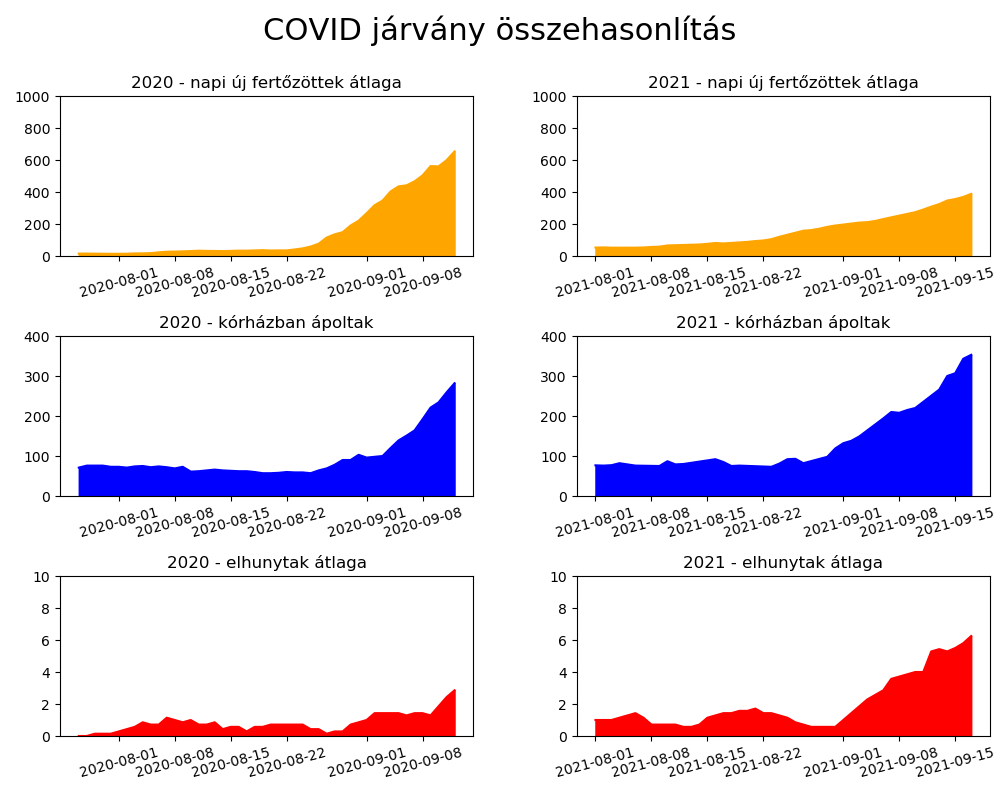
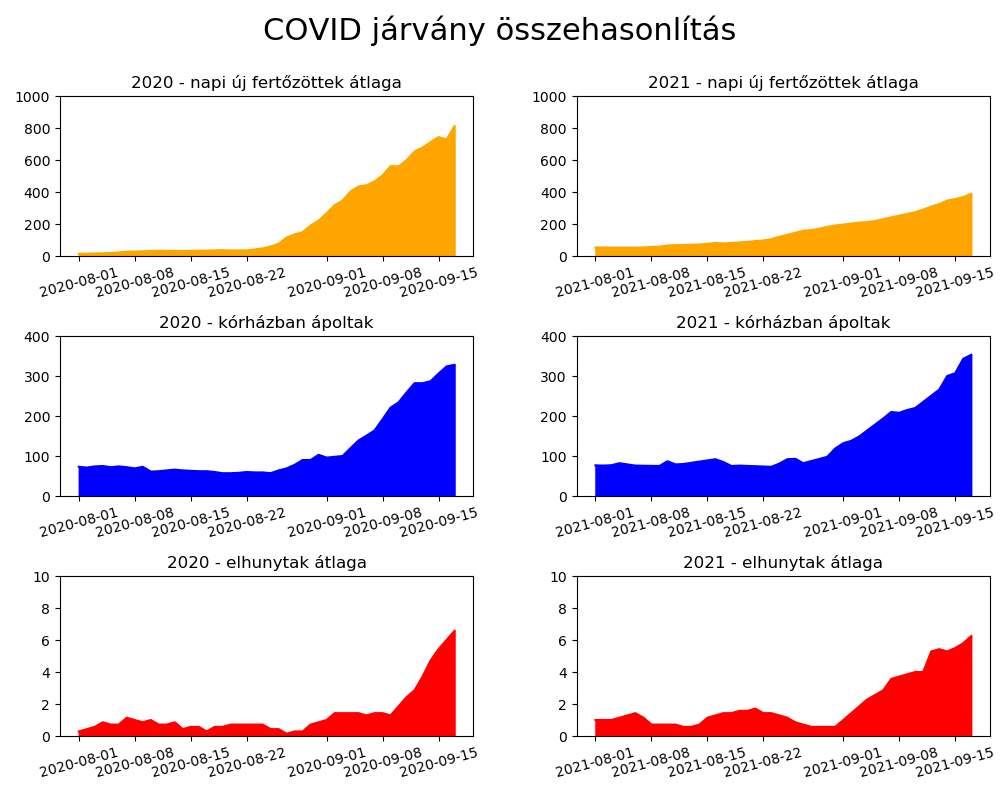
Összehasonlítás napra

diff --git a/kép_összehasonlítás.py b/kép_összehasonlítás.py
@@ -26,23 +26,12 @@ mindate = pd.to_datetime("2021-08-01")
 df2021 = df[df['Dátum'] >= mindate]
 df2021 = df2021[df2021['Dátum'] <= maxdate]
 
-maxdate1y = maxdate + timedelta(days = -385)
-mindate1y = mindate + timedelta(days = -385)
+maxdate1y = maxdate + timedelta(days = -365)
+mindate1y = mindate + timedelta(days = -365)
 
-mincorr = 999999999999999999999
-
-for napok in range(0,30):
-    df2020 = df[df['Dátum'] >= mindate1y + timedelta(days = napok)]
-    df2020 = df2020[df2020['Dátum'] <= maxdate1y + timedelta(days = napok)]
+df2020 = df[df['Dátum'] >= mindate1y]
+df2020 = df2020[df2020['Dátum'] <= maxdate1y]
     
-    corr = abs((df2021['Napi új fertőzött átlag'].reset_index() - df2020['Napi új fertőzött átlag'].reset_index()).sum())['Napi új fertőzött átlag']
-    
-    if corr < mincorr:
-        mincorr = corr
-        df2020m = df2020
-    
-df2020 = df2020m
-
 pd.plotting.register_matplotlib_converters()
 
 fig=plt.figure(figsize=[10,8])
